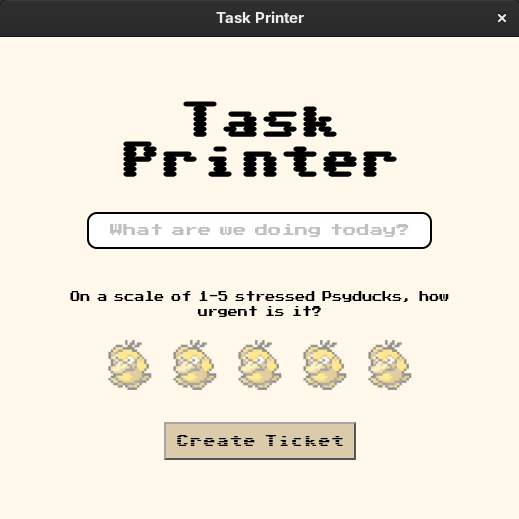
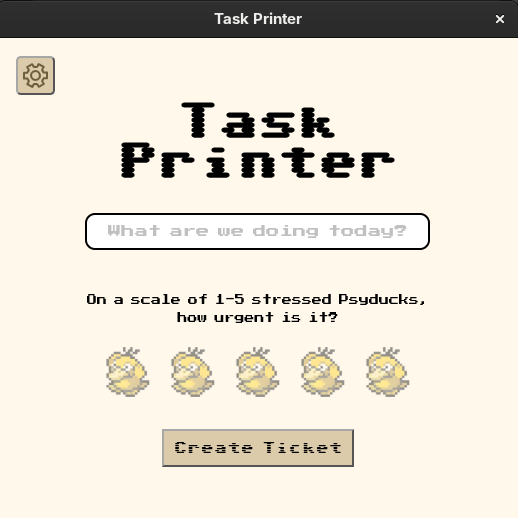
updated the README

diff --git a/README.md b/README.md
@@ -1,27 +1,30 @@
 # Task Printer
 
-Some people work better when they can seey the tasks they have for the day ahead of them, I am one of these people. This program was made aiming to turn taks into something physical that can be pinned to a board reminding you of errands you need to run.
+Some people work best when they can see the tasks they have for the day ahead of them, I am one of those people. This program was made aiming to turn tasks into something physical that can be pinned to a board reminding you of errands you need to run.
 
 <p align="center">
   <img src="./docs/images/printer.png" alt="Task Printer printing a ticket" width="400">
-  <img src="./docs/images/app.png" alt="Task Printer printing a ticket" width="400">
+  <img src="./docs/images/app.png" alt="Task Printer App open" width="400">
 </p>
 
 Type a task, pick how urgent it is on a "Stressed Psyduck Scale" and get a physical to-do ticket from a USB thermal printer.
-Works best with a cork bulletin board.
+Works even better with a cork bulletin board.
 <p align="center">
-  <img src="./docs/images/board.jpg" alt="Task Printer printing a ticket" width="800">
+  <img src="./docs/images/board.jpg" alt="Cork Bulletin Board full of little tasks" width="800">
 </p>
 
 ## How it works
 <p align="center">
-  <img src="./docs/images/preview.png" alt="Task Printer printing a ticket" width="400">
+  <img src="./docs/images/settings.png" alt="Settings window" height="400">
+  <img src="./docs/images/preview.png" alt="Preview of the ticket before printing" height="400">
 </p>
 
-1. The window builds the ticket preview and captures it as an image with `html2canvas`.
-2. The preload script exposes the encoded image.
-3. Through IPC, the main process decodes and saves the image to the computer.
-4. The image is converted to black and white using `jimp`, goes through dithering, and is sent to the printer over USB with ESC/POS commands.
+1. You setup your printer on a settings windows that accepts a PID, a VID and 3 size options for different printers
+2. The app validates and saves the IDs and size to a JSON and automatically displays the current config when you open the settings menu
+3. The window builds the ticket preview and captures it as an image with `html2canvas`.
+4. The preload script exposes the encoded image and the settings.
+5. Through IPC, the main process decodes and saves the image to the computer and uses the user settings to communicate with the printer.
+6. The image is converted to black and white using `jimp`, goes through dithering, and is sent to the printer over USB with ESC/POS commands.
 
 ## Install
 
@@ -32,16 +35,18 @@ Download the latest installer from the [Releases](../../releases) page.
 
 ## Printer setup
 
-The printer is currently identified by its USB vendor/product ID, hardcoded in `src/print.js`:
+To use this app you first need to find your printer's VID and PID values. 
 
 |                  | Value    |
 | ---------------- | -------- |
 | Vendor ID (VID)  | `0x28e9` |
 | Product ID (PID) | `0x0289` |
 
-So out of the box it only works with cheap chinese small printers. If your printer is a different model, find its IDs (see below) and change `PRINTER_VID`, `PRINTER_PID`, and `printerWidth` in `src/print.js`. A setting for this inside the app is on the roadmap.
+On Linux you can find these running `lsusb` which lists all your USB devices with the IDs, on my machine it shows up as:
 
-The app talks to the printer directly over USB, so the operating system has to let it do that. This is a one-time setup per computer.
+`Bus 003 Device 008: ID 28e9:0289 GDMicroelectronics YC Printer demo`
+
+On windows you can find these numbers on the `Device Manager`, right-clicking the printer and opening `Properties`
 
 
 ### Linux (udev rule)
@@ -54,13 +59,13 @@ By default a regular user can't open raw USB devices, so printing fails. A udev 
    lsusb
 ```
 
-2. Create `/etc/udev/rules.d/99-task-printer.rules` with the following content (replace the IDs if yours differ):
+2. Create `/etc/udev/rules.d/70-task-printer.rules` with the following content (replace the IDs if yours differ):
 
 ```
    SUBSYSTEM=="usb", ATTR{idVendor}=="28e9", ATTR{idProduct}=="0289", MODE="0666"
 ```
 
-`MODE="0666"` opens the printer to every user on the machine and works more consistently. Alternatively you can replace it with `TAG+="uaccess"` wich grants access only to whoever is logged in at the computer.
+`MODE="0666"` opens the printer to every user on the machine and works more consistently. Alternatively you can replace it with `TAG+="uaccess"` which grants access only to whoever is logged in at the computer.
 
 3. Reload the rules and reconnect the printer:
 
@@ -90,7 +95,3 @@ Windows usually binds thermal printers to a standard printing driver, which bloc
 
 Electron, Electron Forge, node-escpos, Jimp, html2canvas
 
-## Roadmap
-
-- [ ] Configurable printer VID/PID
-- [ ] Configurable ticket size for bigger printers
